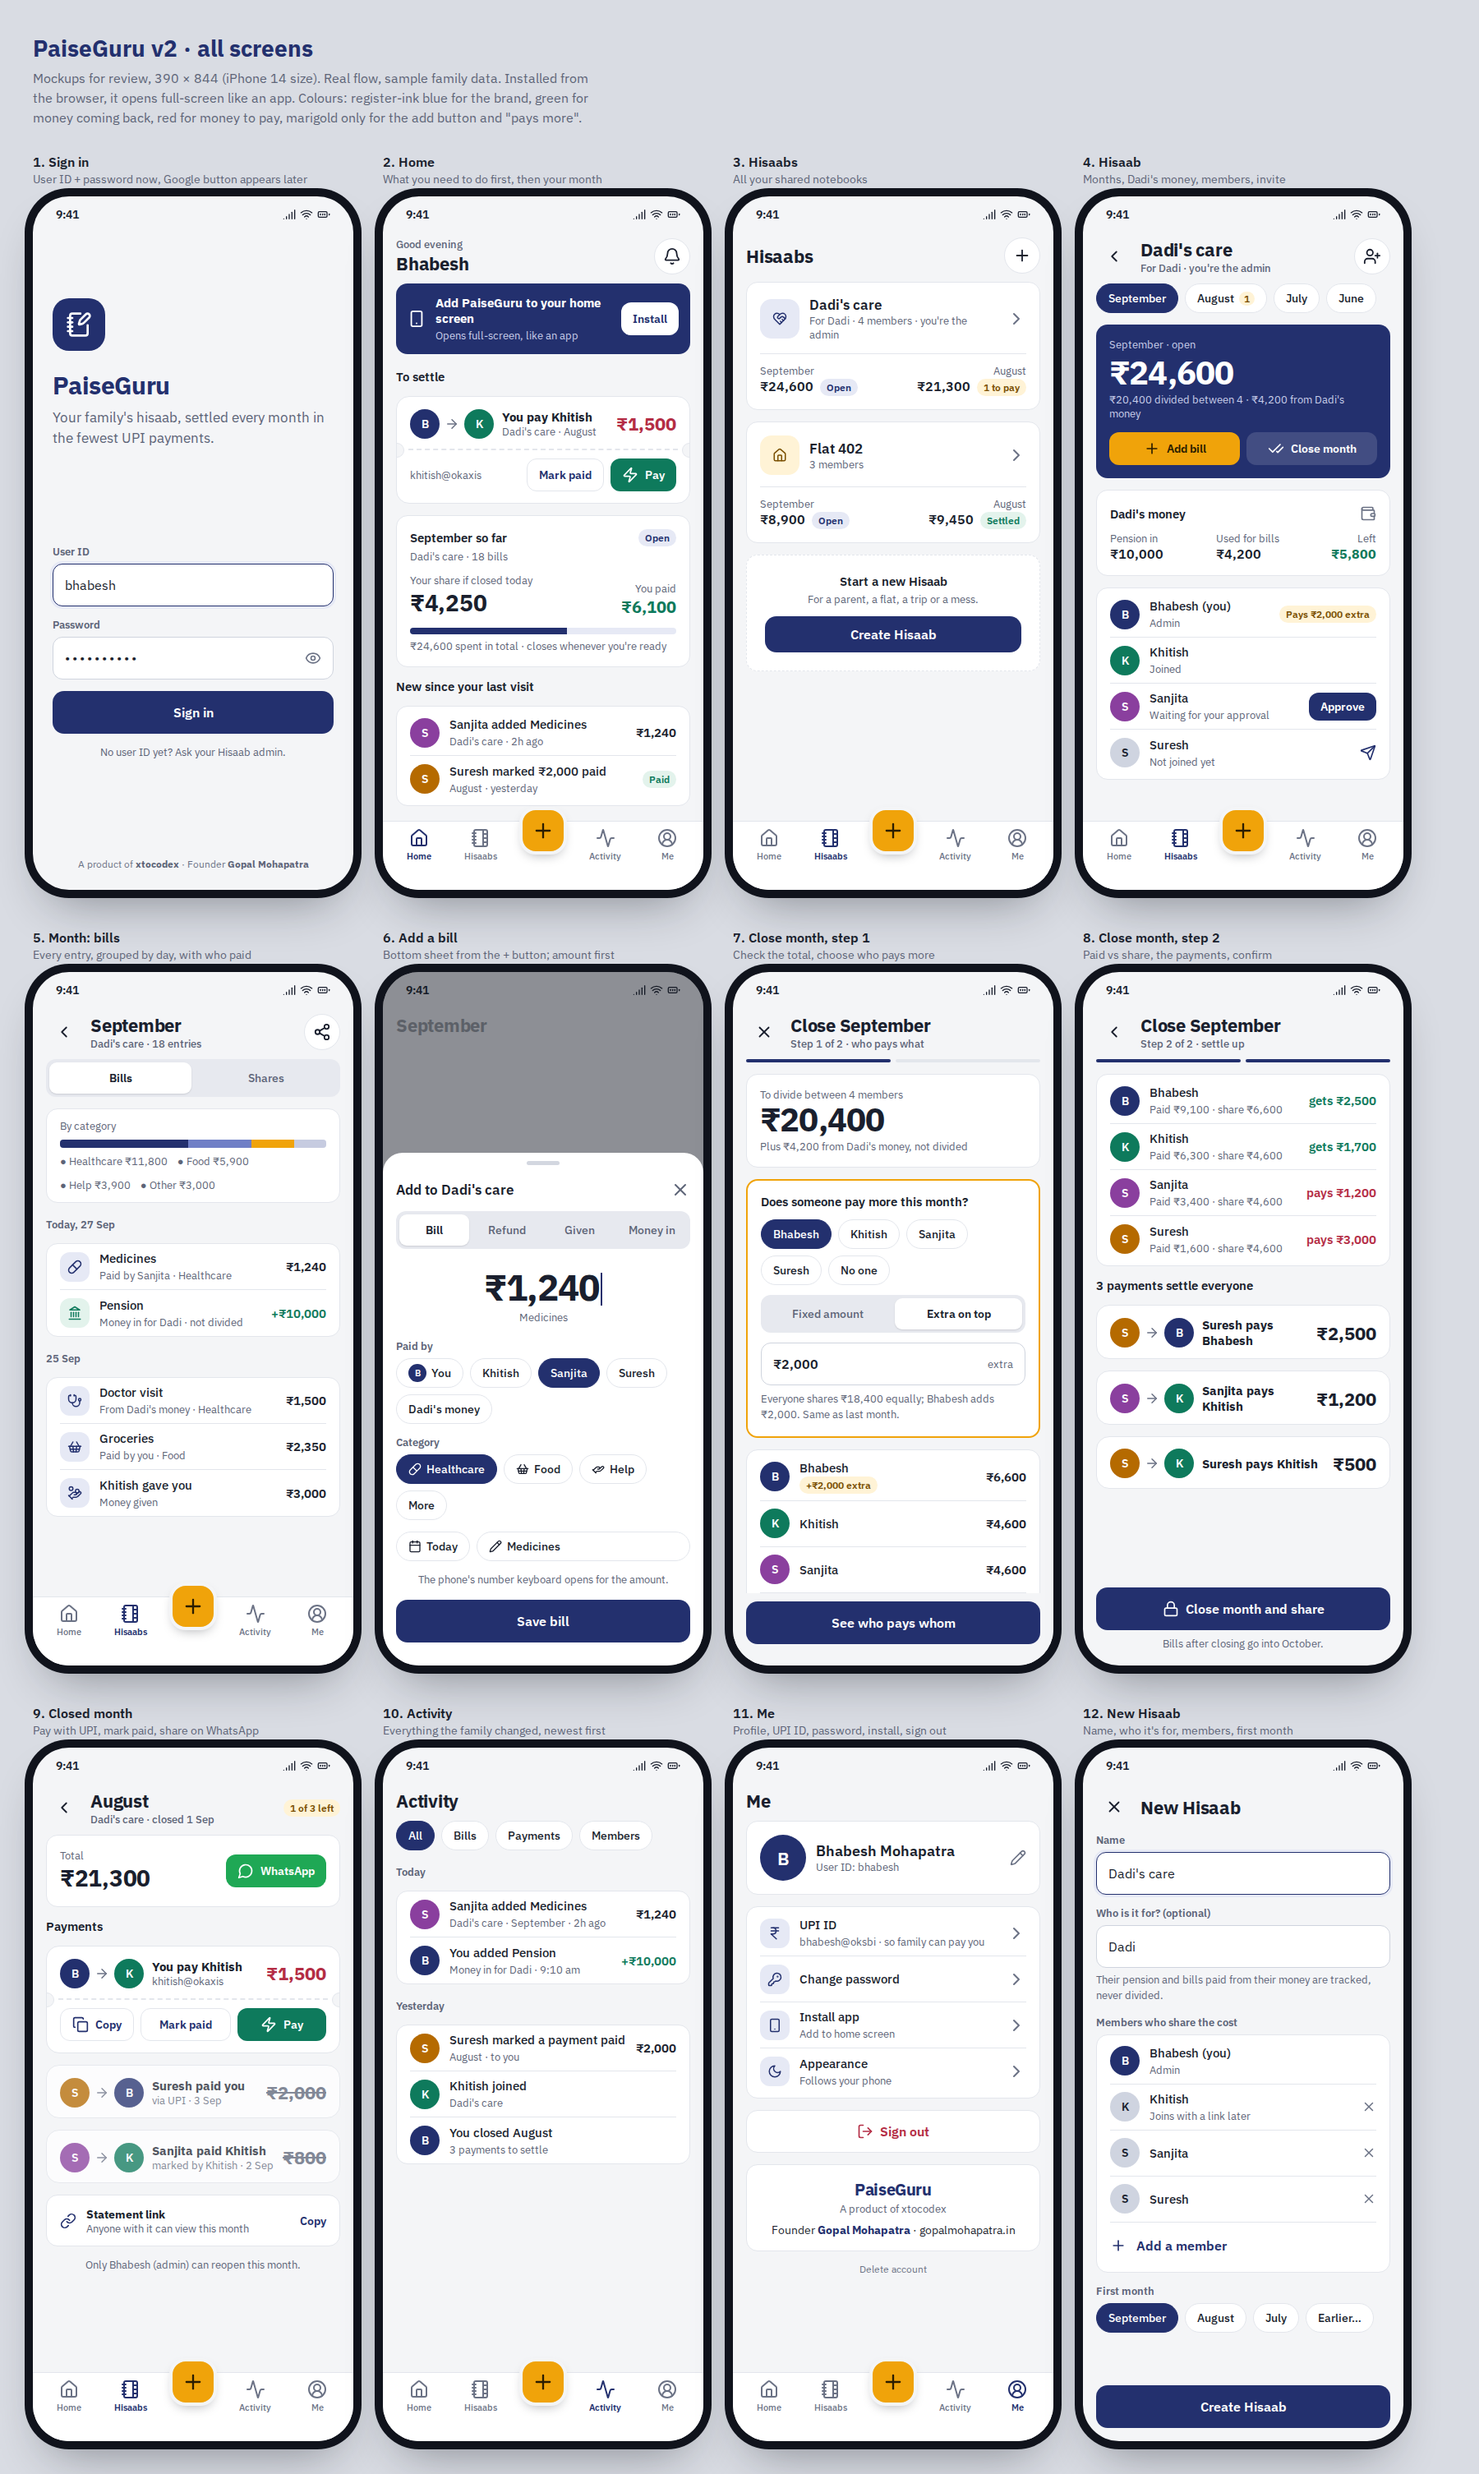
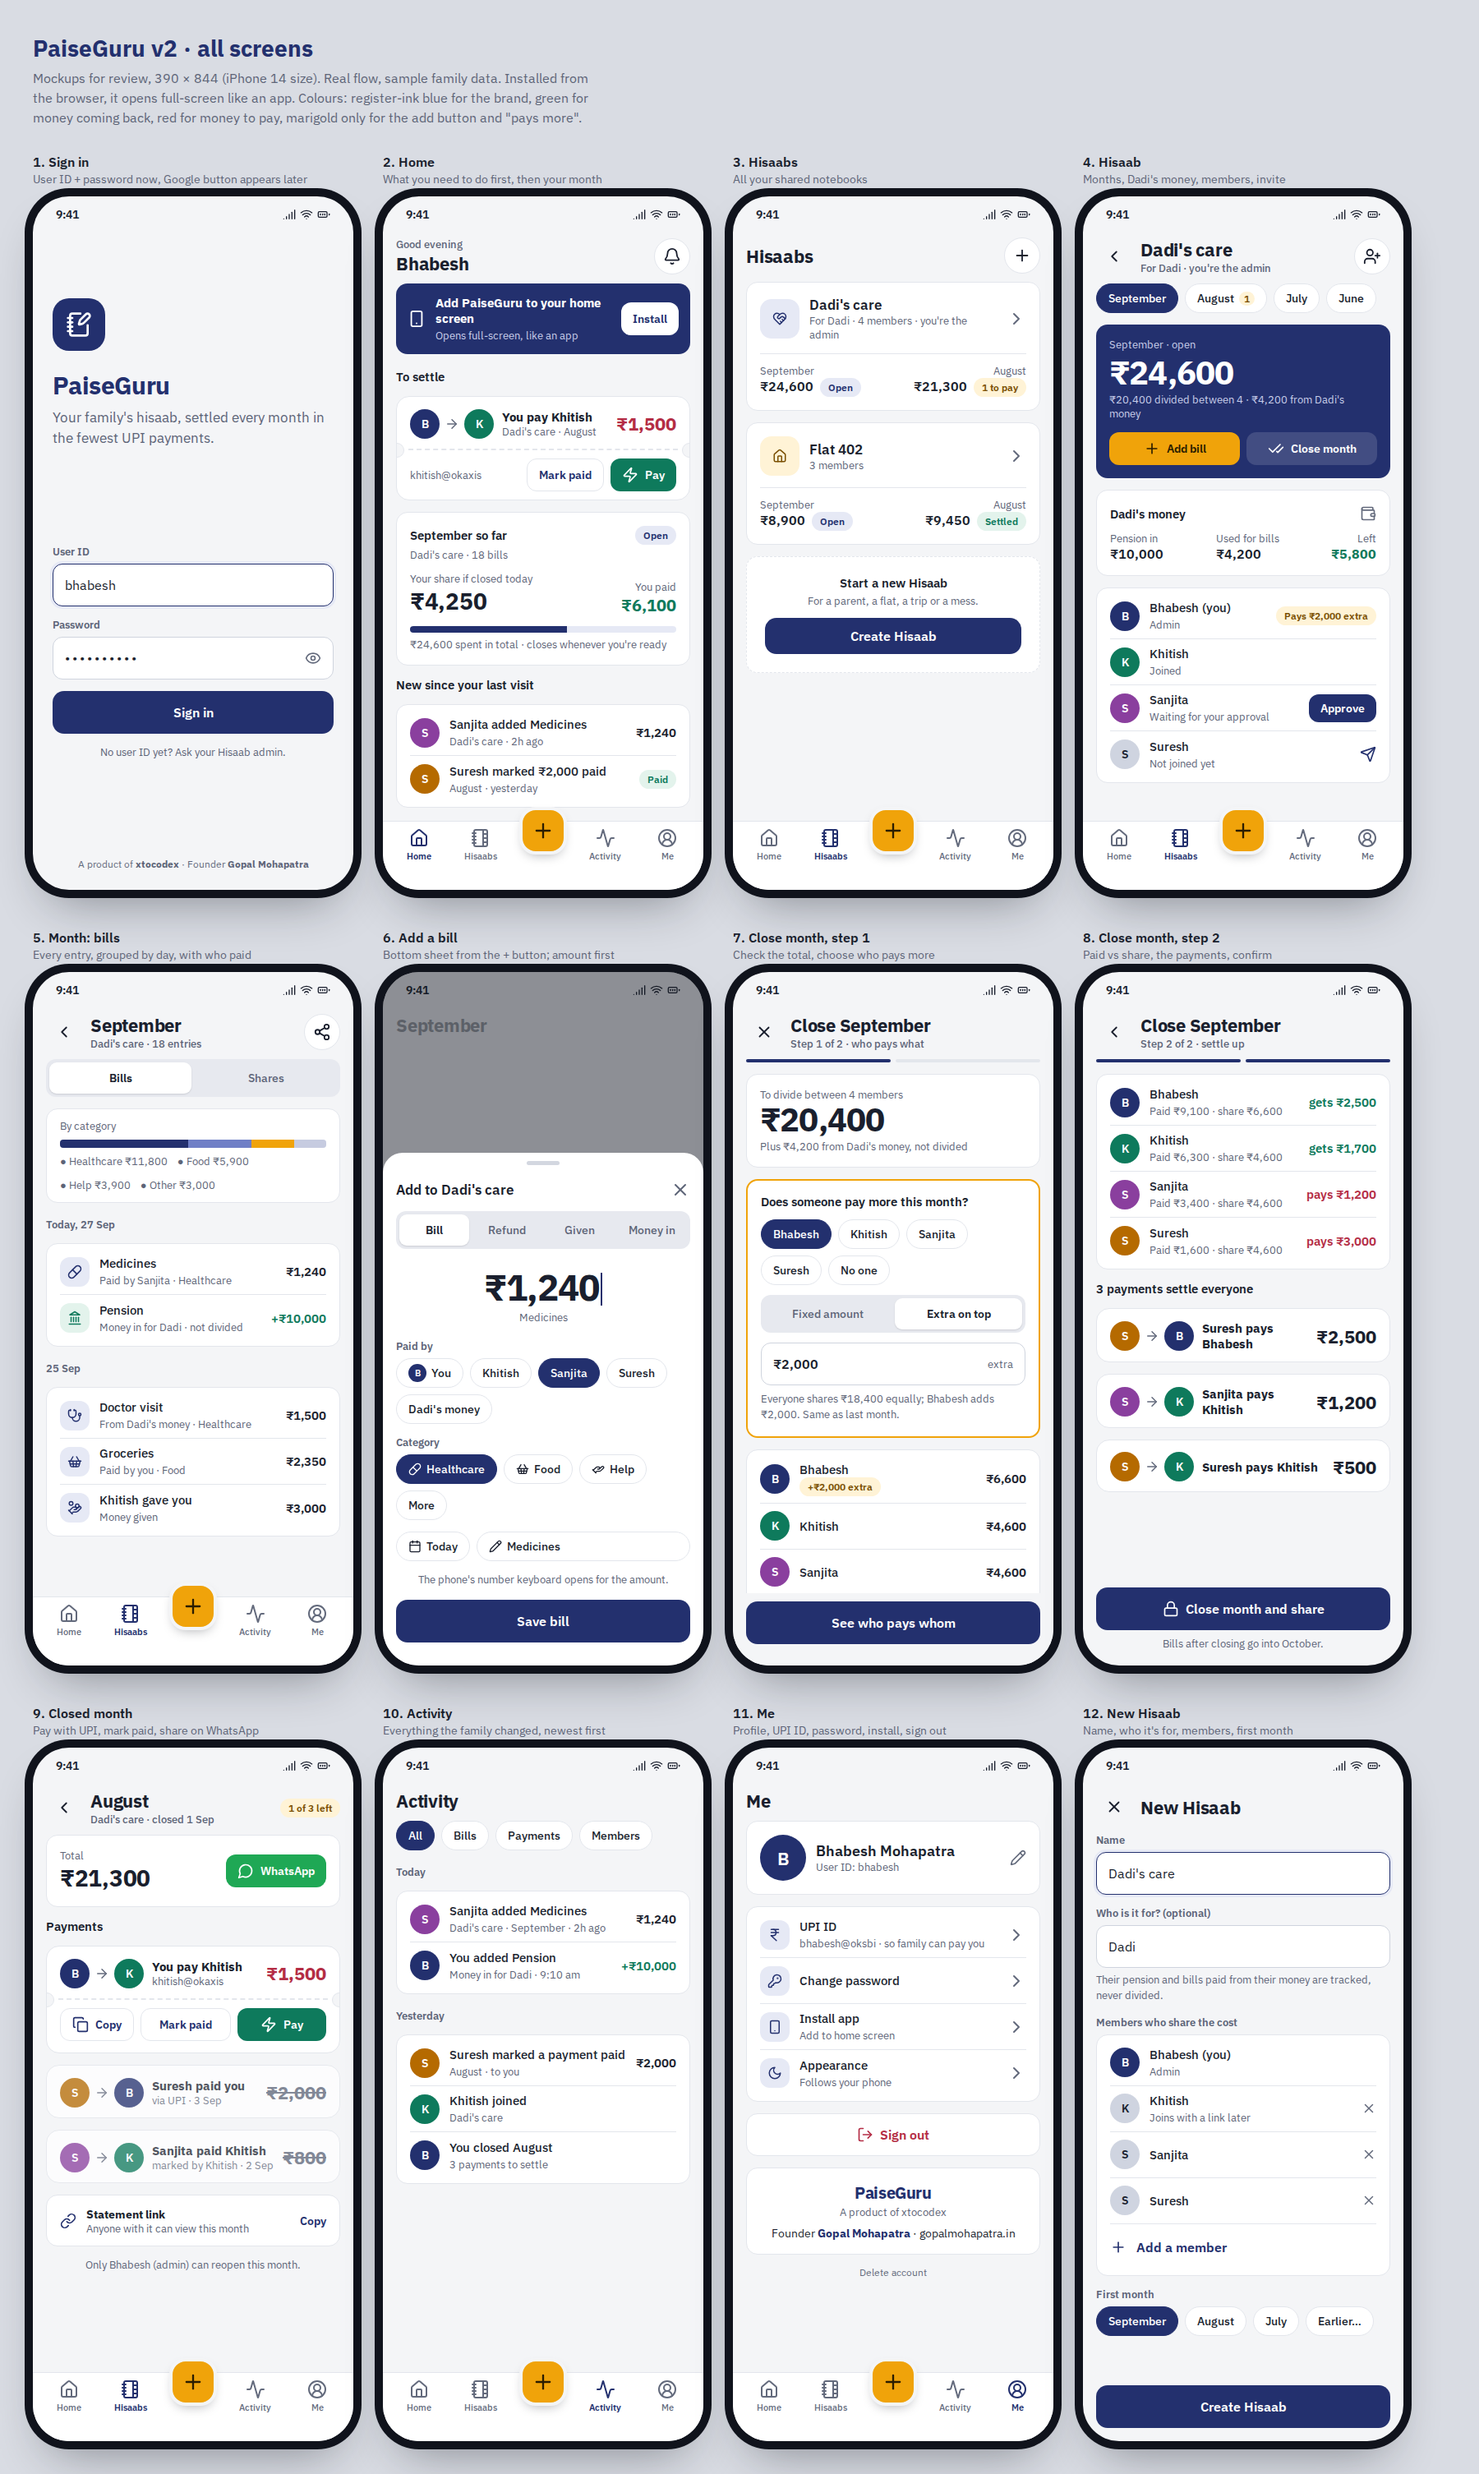
Mockups: darker small text, roomier tags and list cards

diff --git a/docs/designs/v2/screens.html b/docs/designs/v2/screens.html
@@ -12,7 +12,7 @@
   :root {
     --ink: #23306e; --ink-2: #3a4a96; --ink-soft: #e6e9f5;
     --paper: #f4f5f7; --card: #ffffff; --line: #e3e6ec;
-    --text: #1a1f2e; --muted: #5d6477; --faint: #6b7285;
+    --text: #1a1f2e; --muted: #5d6477; --faint: #636a7c;
     --gets: #0e7a5c; --gets-soft: #e3f3ec; --pays: #b42d45; --pays-soft: #fbe9ec;
     --marigold: #f0a30a; --marigold-soft: #fff3d6;
     --r-sm: 10px; --r-md: 14px; --r-lg: 20px;
@@ -71,7 +71,7 @@
   .cat { width: 36px; height: 36px; border-radius: 12px; display: grid; place-items: center; background: var(--ink-soft); color: var(--ink); flex: none; }
   .cat svg { width: 18px; height: 18px; }
   .cat.g { background: var(--gets-soft); color: var(--gets); }
-  .tag { display: inline-flex; align-items: center; gap: 4px; font-size: 12px; font-weight: 600; padding: 3px 8px; border-radius: 999px; background: var(--ink-soft); color: var(--ink); }
+  .tag { display: inline-flex; align-items: center; gap: 4px; font-size: 12px; font-weight: 600; padding: 4px 10px; border-radius: 999px; background: var(--ink-soft); color: var(--ink); }
   .tag.m { background: var(--marigold-soft); color: #7a4f00; }
   .tag.g { background: var(--gets-soft); color: var(--gets); }
   .tag.r { background: var(--pays-soft); color: var(--pays); }
@@ -178,7 +178,7 @@
       <p class="muted" style="margin-top:6px">₹24,600 spent in total · closes whenever you're ready</p>
     </div>
     <p class="h2">New since your last visit</p>
-    <div class="card" style="padding:4px 16px">
+    <div class="card" style="padding:6px 16px">
       <div class="list">
         <div class="li"><div class="av s">S</div><div class="t"><b>Sanjita added Medicines</b><small>Dadi's care · 2h ago</small></div><span class="a num">₹1,240</span></div>
         <div class="li"><div class="av u">S</div><div class="t"><b>Suresh marked ₹2,000 paid</b><small>August · yesterday</small></div><span class="tag g">Paid</span></div>
@@ -231,7 +231,7 @@
         <div style="text-align:right"><p class="muted">Left</p><p class="num gets" style="font-weight:700">₹5,800</p></div>
       </div>
     </div>
-    <div class="card" style="padding:4px 16px">
+    <div class="card" style="padding:6px 16px">
       <div class="list">
         <div class="li"><div class="av b">B</div><div class="t"><b>Bhabesh (you)</b><small>Admin</small></div><span class="tag m">Pays ₹2,000 extra</span></div>
         <div class="li"><div class="av k">K</div><div class="t"><b>Khitish</b><small>Joined</small></div></div>
@@ -256,14 +256,14 @@
       <div class="chips" style="gap:12px;font-size:13px;color:var(--muted)"><span>● Healthcare ₹11,800</span><span>● Food ₹5,900</span><span>● Help ₹3,900</span><span>● Other ₹3,000</span></div>
     </div>
     <p class="date-h">Today, 27 Sep</p>
-    <div class="card" style="padding:0 16px">
+    <div class="card" style="padding:6px 16px">
       <div class="list">
         <div class="li"><div class="cat"><i data-lucide="pill"></i></div><div class="t"><b>Medicines</b><small>Paid by Sanjita · Healthcare</small></div><span class="a num">₹1,240</span></div>
         <div class="li"><div class="cat g"><i data-lucide="landmark"></i></div><div class="t"><b>Pension</b><small>Money in for Dadi · not divided</small></div><span class="a num gets">+₹10,000</span></div>
       </div>
     </div>
     <p class="date-h">25 Sep</p>
-    <div class="card" style="padding:0 16px">
+    <div class="card" style="padding:6px 16px">
       <div class="list">
         <div class="li"><div class="cat"><i data-lucide="stethoscope"></i></div><div class="t"><b>Doctor visit</b><small>From Dadi's money · Healthcare</small></div><span class="a num">₹1,500</span></div>
         <div class="li"><div class="cat"><i data-lucide="shopping-basket"></i></div><div class="t"><b>Groceries</b><small>Paid by you · Food</small></div><span class="a num">₹2,350</span></div>
@@ -314,7 +314,7 @@
       <div class="input" style="margin-top:12px"><span class="num" style="font-weight:600">₹2,000</span><span class="muted" style="margin-left:auto">extra</span></div>
       <p class="note" style="margin-top:8px">Everyone shares ₹18,400 equally; Bhabesh adds ₹2,000. Same as last month.</p>
     </div>
-    <div class="card" style="padding:4px 16px">
+    <div class="card" style="padding:6px 16px">
       <div class="list">
         <div class="li"><div class="av b">B</div><div class="t"><b>Bhabesh</b><small><span class="tag m">+₹2,000 extra</span></small></div><span class="a num">₹6,600</span></div>
         <div class="li"><div class="av k">K</div><div class="t"><b>Khitish</b></div><span class="a num">₹4,600</span></div>
@@ -333,7 +333,7 @@
   <div class="topbar"><div class="icon-btn"><i data-lucide="chevron-left"></i></div><div style="flex:1"><h1>Close September</h1><p class="sub">Step 2 of 2 · settle up</p></div></div>
   <div class="scroll">
     <div class="steps"><i class="on"></i><i class="on"></i></div>
-    <div class="card" style="padding:4px 16px">
+    <div class="card" style="padding:6px 16px">
       <div class="list">
         <div class="li"><div class="av b">B</div><div class="t"><b>Bhabesh</b><small>Paid ₹9,100 · share ₹6,600</small></div><span class="a num gets">gets ₹2,500</span></div>
         <div class="li"><div class="av k">K</div><div class="t"><b>Khitish</b><small>Paid ₹6,300 · share ₹4,600</small></div><span class="a num gets">gets ₹1,700</span></div>
@@ -381,12 +381,12 @@
   <div class="scroll">
     <div class="chips"><span class="chip on">All</span><span class="chip">Bills</span><span class="chip">Payments</span><span class="chip">Members</span></div>
     <p class="date-h">Today</p>
-    <div class="card" style="padding:0 16px"><div class="list">
+    <div class="card" style="padding:6px 16px"><div class="list">
       <div class="li"><div class="av s">S</div><div class="t"><b>Sanjita added Medicines</b><small>Dadi's care · September · 2h ago</small></div><span class="a num">₹1,240</span></div>
       <div class="li"><div class="av b">B</div><div class="t"><b>You added Pension</b><small>Money in for Dadi · 9:10 am</small></div><span class="a num gets">+₹10,000</span></div>
     </div></div>
     <p class="date-h">Yesterday</p>
-    <div class="card" style="padding:0 16px"><div class="list">
+    <div class="card" style="padding:6px 16px"><div class="list">
       <div class="li"><div class="av u">S</div><div class="t"><b>Suresh marked a payment paid</b><small>August · to you</small></div><span class="a num">₹2,000</span></div>
       <div class="li"><div class="av k">K</div><div class="t"><b>Khitish joined</b><small>Dadi's care</small></div></div>
       <div class="li"><div class="av b">B</div><div class="t"><b>You closed August</b><small>3 payments to settle</small></div></div>
@@ -402,7 +402,7 @@
   <div class="topbar"><h1>Me</h1></div>
   <div class="scroll">
     <div class="card row"><div class="av b" style="width:56px;height:56px;font-size:22px">B</div><div style="flex:1"><p style="font-weight:600;font-size:18px">Bhabesh Mohapatra</p><p class="muted">User ID: bhabesh</p></div><i data-lucide="pencil" style="width:20px;color:var(--faint)"></i></div>
-    <div class="card" style="padding:4px 16px"><div class="list">
+    <div class="card" style="padding:6px 16px"><div class="list">
       <div class="li"><div class="cat"><i data-lucide="indian-rupee"></i></div><div class="t"><b>UPI ID</b><small>bhabesh@oksbi · so family can pay you</small></div><i data-lucide="chevron-right" style="color:var(--faint)"></i></div>
       <div class="li"><div class="cat"><i data-lucide="key-round"></i></div><div class="t"><b>Change password</b></div><i data-lucide="chevron-right" style="color:var(--faint)"></i></div>
       <div class="li"><div class="cat"><i data-lucide="smartphone"></i></div><div class="t"><b>Install app</b><small>Add to home screen</small></div><i data-lucide="chevron-right" style="color:var(--faint)"></i></div>
@@ -428,7 +428,7 @@
     <div class="field"><label>Name</label><div class="input focus">Dadi's care</div></div>
     <div class="field"><label>Who is it for? (optional)</label><div class="input">Dadi</div><p class="note">Their pension and bills paid from their money are tracked, never divided.</p></div>
     <div class="field"><label>Members who share the cost</label>
-      <div class="card" style="padding:4px 16px"><div class="list">
+      <div class="card" style="padding:6px 16px"><div class="list">
         <div class="li"><div class="av b">B</div><div class="t"><b>Bhabesh (you)</b><small>Admin</small></div></div>
         <div class="li"><div class="av p">K</div><div class="t"><b>Khitish</b><small>Joins with a link later</small></div><i data-lucide="x" style="width:18px;color:var(--faint)"></i></div>
         <div class="li"><div class="av p">S</div><div class="t"><b>Sanjita</b></div><i data-lucide="x" style="width:18px;color:var(--faint)"></i></div>
